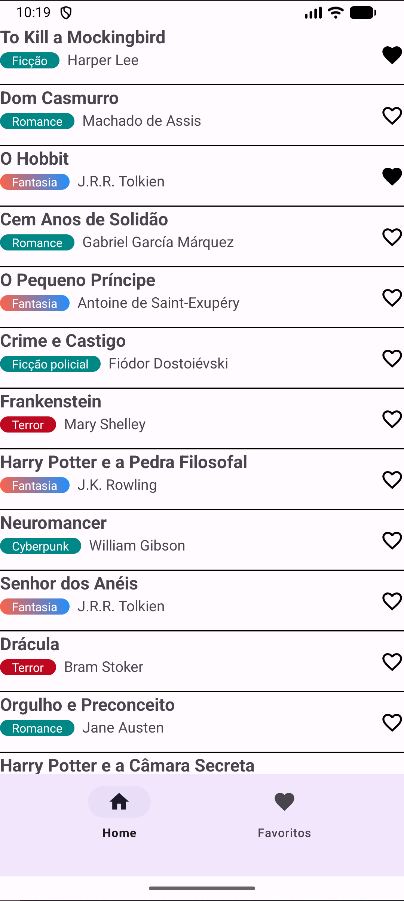
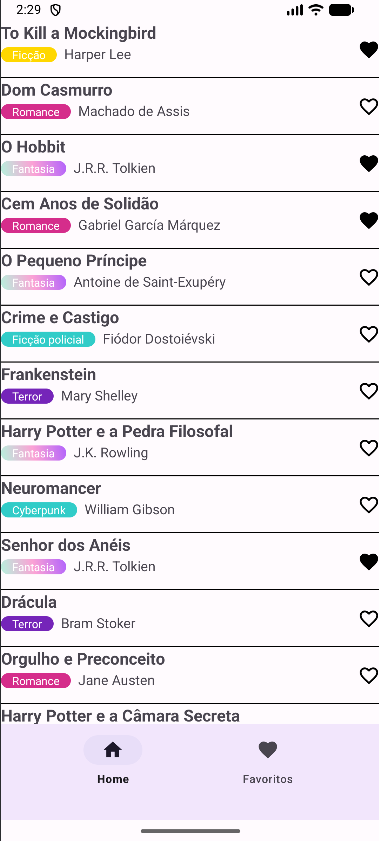
refactor: colors that represents the gender

diff --git a/app/src/main/java/com/danimota/myfavoritebooks/ui/viewholder/BookViewHolder.kt b/app/src/main/java/com/danimota/myfavoritebooks/ui/viewholder/BookViewHolder.kt
@@ -41,11 +41,19 @@ class BookViewHolder(private val item : ItemBookBinding, private val listener: B
     private fun setGenreBackgroundColor(genre: String) {
         when (genre) {
             "Terror" -> {
-                item.textviewGenre.setBackgroundResource(R.drawable.rounded_label_red)
+                item.textviewGenre.setBackgroundResource(R.drawable.rounded_label_purple)
             }
 
             "Fantasia" -> {
                 item.textviewGenre.setBackgroundResource(R.drawable.rounded_label_fantasy)
+            }
+
+            "Romance" -> {
+                item.textviewGenre.setBackgroundResource(R.drawable.rounded_label_magenta)
+            }
+
+            "Ficção" -> {
+                item.textviewGenre.setBackgroundResource(R.drawable.rounded_label_gold)
             }
 
             else -> {

diff --git a/app/src/main/java/com/danimota/myfavoritebooks/ui/DetailsFragment.kt b/app/src/main/java/com/danimota/myfavoritebooks/ui/DetailsFragment.kt
@@ -118,7 +118,7 @@ class DetailsFragment : Fragment(), View.OnClickListener  {
     private fun setGenreBackgroundColor(genre: String) {
         when (genre) {
             "Terror" -> {
-                binding.textviewGenreValue.setBackgroundResource(R.drawable.rounded_label_red)
+                binding.textviewGenreValue.setBackgroundResource(R.drawable.rounded_label_purple)
             }
 
             "Fantasia" -> {

diff --git a/README.md b/README.md
@@ -59,7 +59,7 @@ Escolhida por garantir melhor performance, recursos de UI modernos e integraçã
 
 ## 6. Screenshots do app
 
-- [Home](docs/images/details.png)
+- [Home](docs/images/home.png)
 - [Favorites](docs/images/favorites.png)
 - [Details](docs/images/details.png)
 
